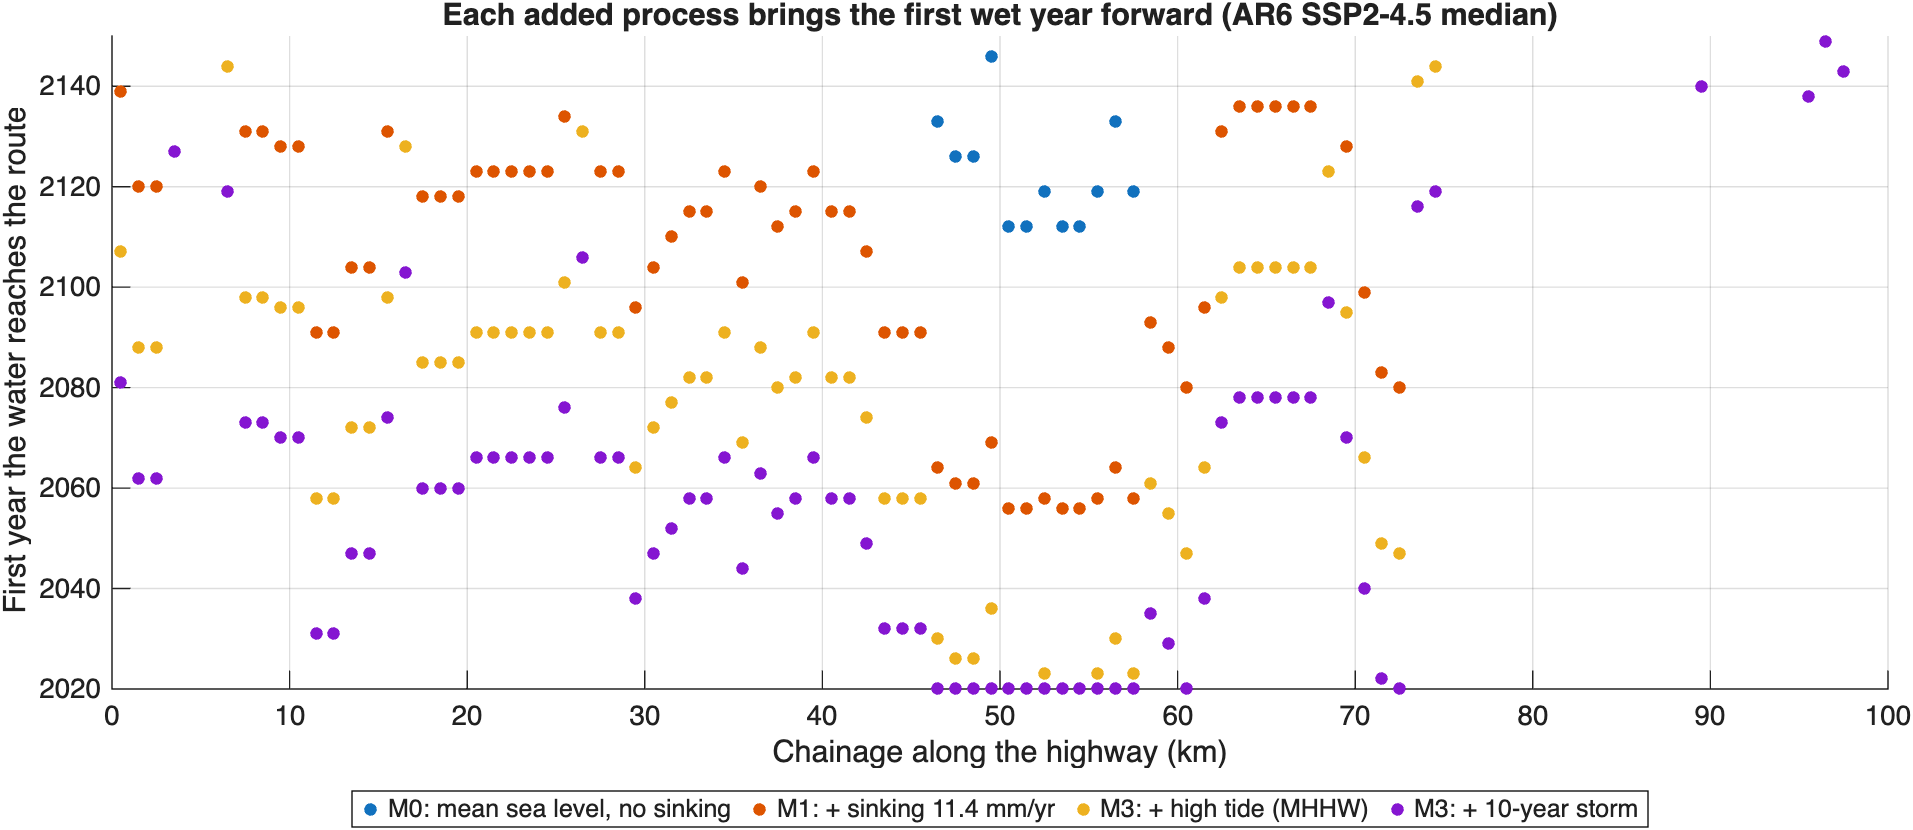
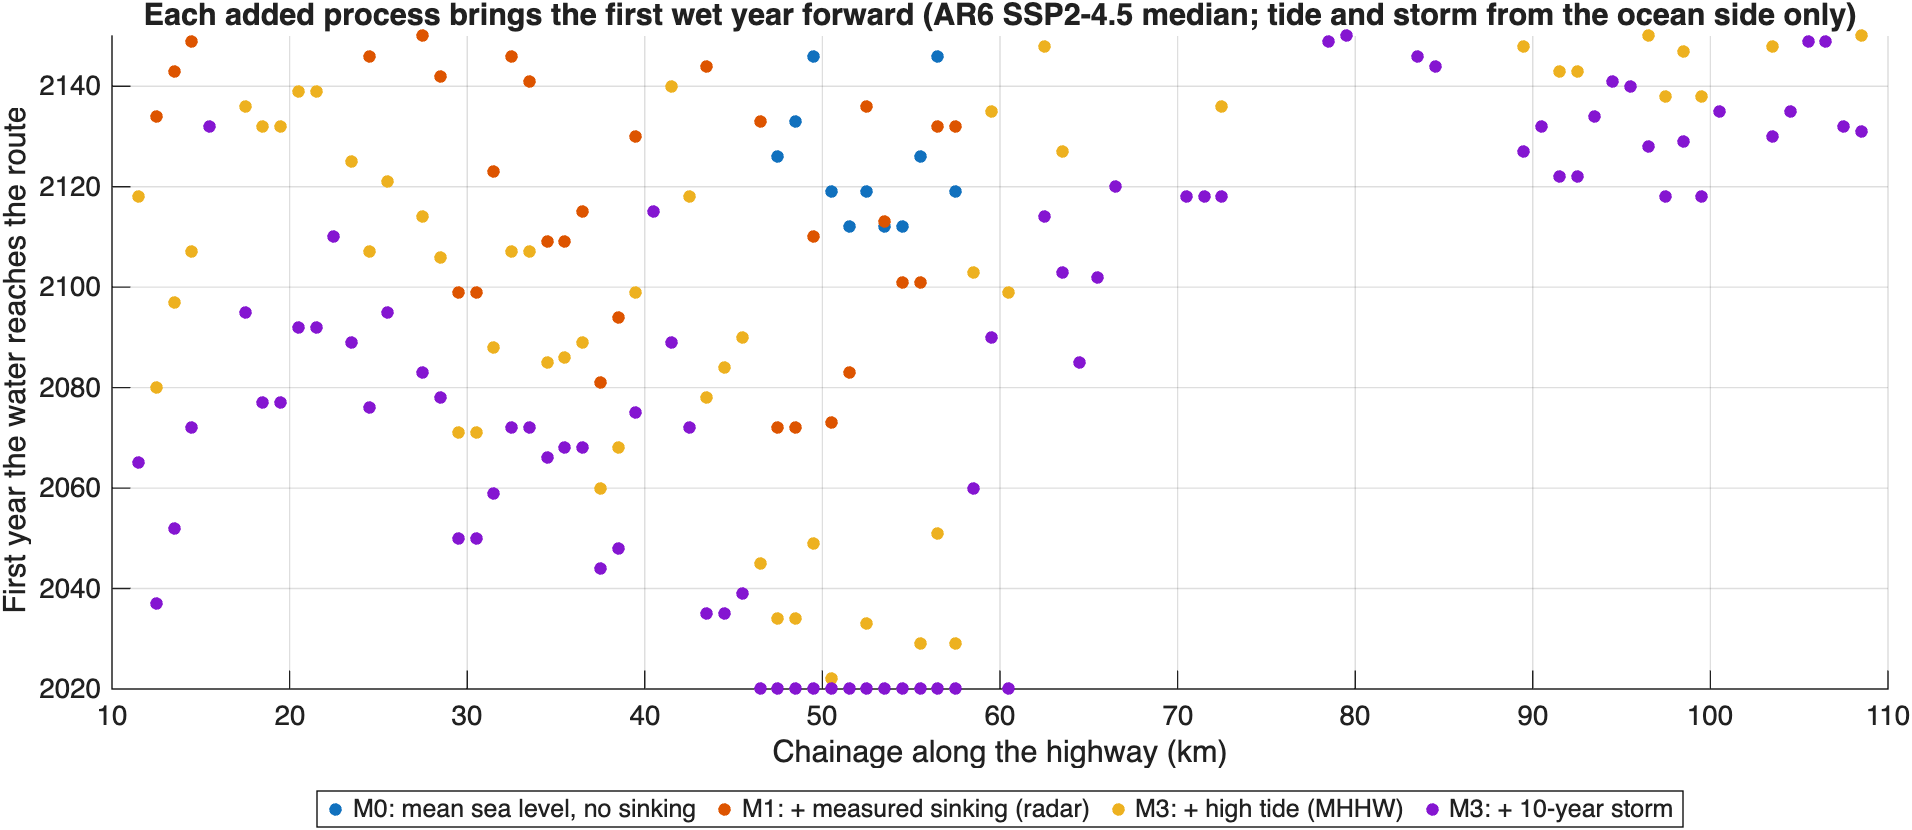
Add final figures with measured sinking; fix map orientation in run_fullmap_sinking

diff --git a/run_fullmap_sinking.m b/run_fullmap_sinking.m
@@ -141,7 +141,8 @@ fig = figure('Color', 'w', 'Position', [60 60 1250 820]);
 tl = tiledlayout(fig, 2, 1, 'TileSpacing', 'compact');
 ax1 = nexttile(tl);
 Vp = 1000 * double(V); Vp(~land) = NaN; Vp = Vp(1:st:end, 1:st:end);
-imagesc(ax1, xs, ys, Vp, 'AlphaData', ~isnan(Vp)); set(ax1, 'Color', [0.75 0.85 0.95]);   % water shown light blue axis(ax1, 'xy'); set(ax1, 'DataAspectRatio', [1 cosd(6.45) 1]);
+imagesc(ax1, xs, ys, Vp, 'AlphaData', ~isnan(Vp)); set(ax1, 'Color', [0.75 0.85 0.95]);   % water shown light blue
+axis(ax1, 'xy'); set(ax1, 'DataAspectRatio', [1 cosd(6.45) 1]);
 colormap(ax1, flipud(redblue(256))); clim(ax1, [-20 20]);
 cb = colorbar(ax1); cb.Label.String = 'mm/yr (negative = sinking)';
 hold(ax1, 'on'); [rI, rJ] = ind2sub(size(Z), road.idx);

diff --git a/README.md b/README.md
@@ -125,6 +125,10 @@ Measured sinking under each road km:
 
 ![Sinking along the road](docs/figures/insar_road_profile.png)
 
+Land reached by water at the mean sea level of 2100 (SSP2-4.5 median), with no sinking (blue, M0) and the extra land reached once the measured sinking is applied cell by cell (red, M1). Black line = highway:
+
+![Flooding with measured sinking](docs/figures/fullmap_sinking_2100.png)
+
 Route and 1 km segments used in the analysis:
 
 ![Highway segments](docs/figures/highway_segments.png)
